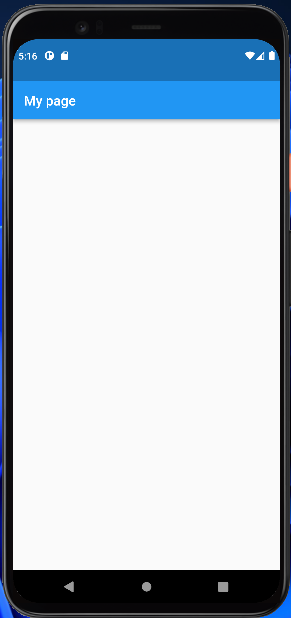
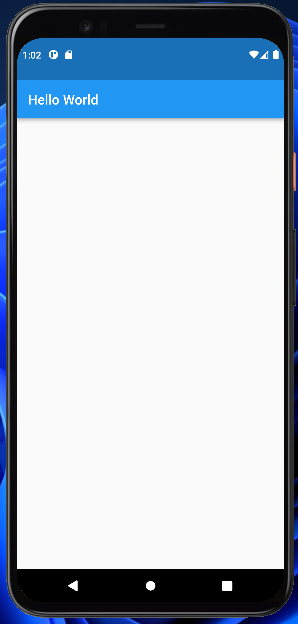
.

Changed region(s): [[0.0, 0.0, 1.0, 1.0], [0.9278, 0.0, 0.9588, 0.0307]]

diff --git a/readme.md b/readme.md
@@ -86,22 +86,52 @@ Nesta seção será descrito como criar um novo micro app para a plataforma.
    
     Todo micro app deve ter uma classe **MicroAppResolver** que implementará a classe abstrata **MicroApp** declarada no Micro Core.
 
-    ![Micro app resolver](images/micro_app_resolver.png)
+    ```dart
+    import 'package:micro_core/app/micro_core_utils.dart';
+    import 'package:micro_core/app/mircoapp.dart';
 
-    Certifique-se de implementar todos os getters necessários.
+    class MicroAppResolver implements MicroApp {
+        @override
+        void Function() get createListener => () {};
+
+        @override
+        void Function() get injectionsRegister => () {};
+
+        @override
+        String get microAppName => "micro app teste";
+
+        @override
+        Map<String, WidgetBuilderArgs> get routes => {};
+    }
+    ```
 
     - microAppName: deve retorar um string com o nome do micro_app.
     - injectionsRegister: deve retornar uma função responsável por criar as injeções de dependência.
     - createListener: deve retornar uma função responsável por registar os eventos que serão observados pelo micro app.
     - routes: deve retornar uma função responsável por retornar um Map de rotas nomeadas do micro app.
 
-    Em micro apps novos podemos retornar funções ou maps vazios, uma vez um que o micro app ainda nao tem rotas, eventos ou injeção de dependencia, como visto na imagem acima.
+    Em micro apps novos podemos retornar funções ou maps vazios, uma vez um que o micro app ainda nao tem rotas, eventos ou injeção de dependencia, como visto no exemplo acima.
 
     Uma vez com a classe implementada, você terá um micro app que pode ser utilizado por qualquer base app.
 
 7.  Crie um página simples para testar o uso do seu micro app.
 
-    ![Simple page](images/simple_page.png)
+    ```dart
+    import 'package:flutter/material.dart';
+
+    class MyPage extends StatelessWidget {
+        const MyPage({Key? key}) : super(key: key);
+
+        @override
+        Widget build(BuildContext context) {
+            return Scaffold(
+                appBar: AppBar(
+                    title: const Text("Hello World"),
+                ),
+            );
+        }
+    }
+    ```
 
 8.  Abra o **base app** em uma IDE.
 
@@ -124,7 +154,16 @@ Nesta seção será descrito como criar um novo micro app para a plataforma.
 
 10. No arquivo **lib/app/core/micro_apps_resolvers.dart** do base app, adicione a classe **MicroAppResolver** do micro app recém criado à lista de micro apps resolvers.
 
-    ![Micro app resolver](images/micro_app_resolvers.png)
+    ```dart
+    import 'package:micro_app_test/app/core/micro_app_resolver.dart' as micro_app_test;
+    import 'package:micro_core/app/mircoapp.dart';
+
+    class MicroAppResolvers {
+        static List<MicroApp> getMicroAppsResolvers() {
+            return [micro_app_test.MicroAppResolver()];
+        }
+    }
+    ```
 
 11. No app_widget.dart do base app mude o atributo **home** para a página do seu micro app.
 
